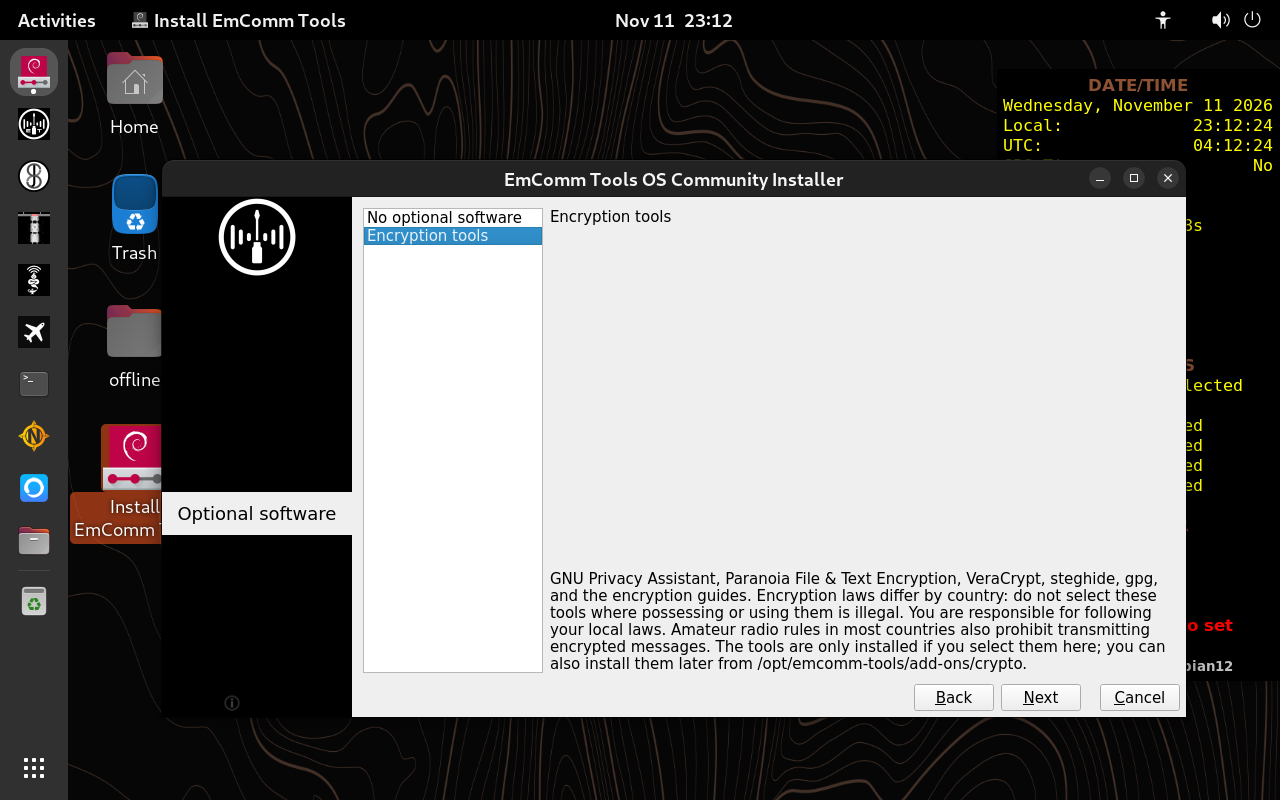
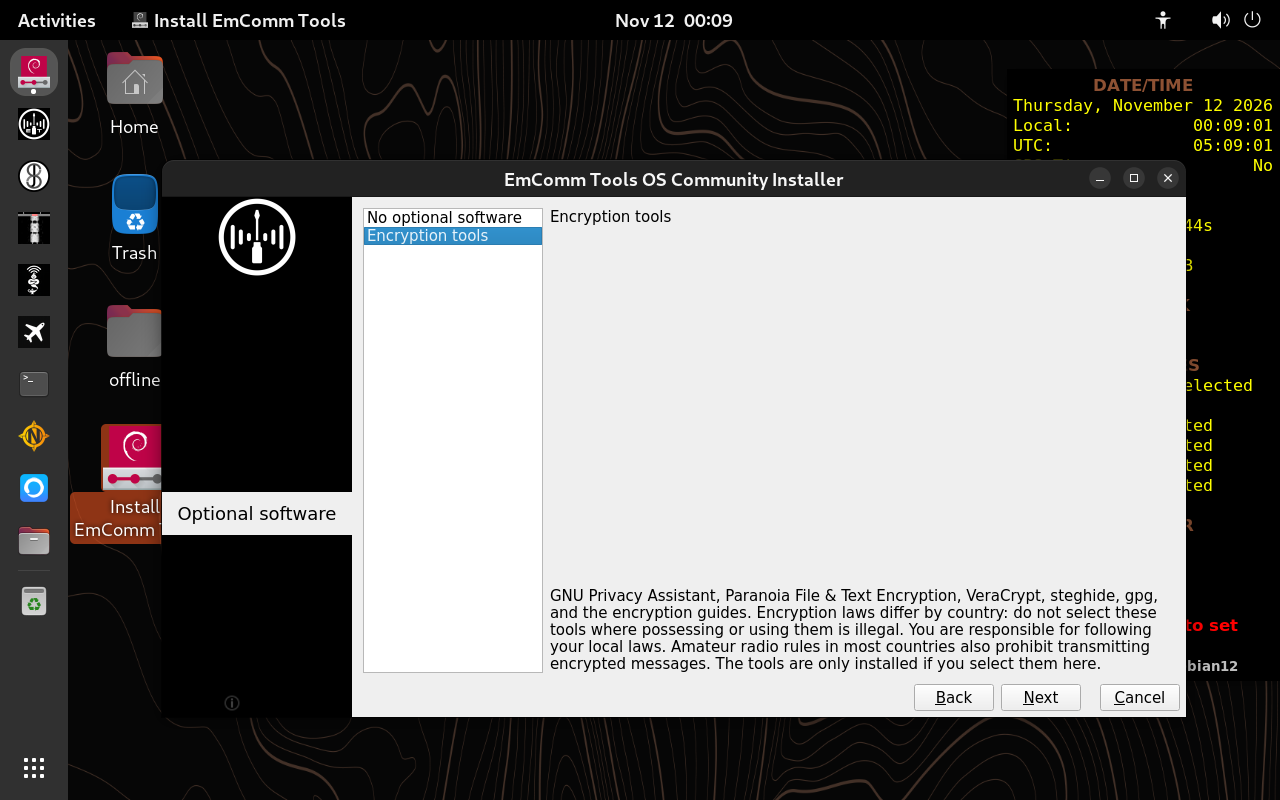
debian - Fix live settings carry-over placeholders; docs updates
- shellprocess-etc-live-settings.conf: Calamares 3.2.61 expands
  @@ROOT@@ and @@USER@@, not ${ROOT}/${USER}; with the old form the
  callsign and grid weren't copied. Tested in a VM.
- CHANGES-OVERVIEW.md moved next to ISO-BUILD-PLAN.md; goals for version
  and look parity with r7; suggested next steps for maps and Wikipedia;
  categories sorted by file count; Verified and not-tested lists updated.
- ISO-BUILD-PLAN.md: maps row, carry-over and GRUB checks, link to the
  install guide.
- install.sh: build-mode comments no longer mention first-login maps.
- Install guide: Optional software screenshot from the current ISO.

diff --git a/CHANGES-OVERVIEW.md b/CHANGES-OVERVIEW.md
@@ -3,10 +3,10 @@
 This document covers what one-time changes are needed to move EmComm Tools from Ubuntu/Cubic to Debian/live-build,
 and why.
 
-Once these changes are PR/merged, this document becomes irrelevant and can be removed.
+Once these changes are merged, this document becomes irrelevant and can be removed.
 
 How to build ISOs from now on is in
-[ISO-BUILD-PLAN.md](../ISO-BUILD-PLAN.md) and should persist.
+[ISO-BUILD-PLAN.md](ISO-BUILD-PLAN.md) and should persist.
 
 ## Goal
 
@@ -14,9 +14,10 @@ The smallest change that:
 
 1. moves EmComm Tools from Ubuntu/Cubic to Debian/live-build,
 2. builds an ISO for global distribution,
-3. leaves the encryption tools installation up to the person installing, and
-4. produces an ISO that boots, installs and runs with no internet. Installing
-   VARA (optional) needs internet, or a WINE backup to restore.
+3. leaves the encryption tools installation up to the person installing,
+4. produces an ISO that boots, installs and runs with no internet. Installing VARA (optional) needs internet, or a WINE backup to restore from,
+5. keeps version parity with r7 where possible, and
+6. maintain the look and style of r7.
 
 ## For the ETC developer to review
 
@@ -29,10 +30,10 @@ asks none, so each is handled differently now:
 
 | r7 question | Where | Now |
 |---|---|---|
-| OSM state map (Navit) | `download-osm-maps.sh` | Not in the ISO. Planned: first-login map step per operator. Until then there's no simple way to get it |
-| ETC map tiles: US, Canada or world | `download-et-maps.sh` | The world map (80 MB) is in the ISO. US and Canada tiles: same planned first-login step |
-| Wikipedia file (`ET_EXPERT`) | `download-wikipedia.sh` | No `.zim` files ship with the ISO; the Kiwix reader is installed. Users download `.zim` files after install ([INSTALL-GUIDE.md](INSTALL-GUIDE.md)) |
-| VARA/WINE notes (`ET_EXPERT`) | `install-wine.sh`, `wine.txt` | WINE, winetricks and the VARA add-on scripts (`~/add-ons/wine`) are in the ISO; VARA itself isn't. Users install it after install, with internet or by restoring a WINE backup made with `05-backup-wine-install.sh` (`cd ~ && tar -xzf etc-wine-backup-*.tar.gz`). Covered in [INSTALL-GUIDE.md](INSTALL-GUIDE.md) |
+| OSM state map (Navit) | `download-osm-maps.sh` | Not in the ISO. For now, users copy a `.osm.pbf` state map to `~/my-maps/` after install ([INSTALL-GUIDE.md](docs/INSTALL-GUIDE.md)). Suggested next step: a map step after install that runs `download-osm-maps.sh` for the user when online |
+| ETC map tiles: US, Canada or world | `download-et-maps.sh` | The world map (80 MB) is in the ISO. For now, users copy US or Canada `.mbtiles` to `~/.local/share/emcomm-tools/mbtileserver/tilesets/` after install ([INSTALL-GUIDE.md](docs/INSTALL-GUIDE.md)). Suggested next step: the same map step runs `download-et-maps.sh` |
+| Wikipedia file (`ET_EXPERT`) | `download-wikipedia.sh` | No `.zim` files ship with the ISO; the Kiwix reader is installed. For now, users download or copy `.zim` files after install ([INSTALL-GUIDE.md](docs/INSTALL-GUIDE.md)). Suggested next step: the same map step also offers `download-wikipedia.sh` when online |
+| VARA/WINE notes (`ET_EXPERT`) | `install-wine.sh`, `wine.txt` | WINE, winetricks and the VARA add-on scripts (`~/add-ons/wine`) are in the ISO; VARA itself isn't. Users install it after install, with internet or by restoring a WINE backup made with `05-backup-wine-install.sh` (`cd ~ && tar -xzf etc-wine-backup-*.tar.gz`). Covered in [INSTALL-GUIDE.md](docs/INSTALL-GUIDE.md) |
 
 Other changes users will notice:
 
@@ -85,11 +86,12 @@ Debian 12 install. To watch in hardware testing: VARA under WINE 8.0.
 
 ## Size/Scope of this migration
 
-Branch `feature/debian-live-iso` against `release/r7`: **76 files,
-+1,674 / −341 lines** (not counting this document).
+Branch `feature/debian-live-iso` against `release/r7`: **95 files,
++1,682 / −341 lines** (not counting this document).
 
 It's less than it looks:
 
+- 17 files are the install guide's screenshots, plus the guide itself.
 - 22 files are moves or deletions with no new logic: 12 renames (slideshow
   images, encryption guide files, the GNOME settings file) and 10 deleted
   Ubuntu/Cubic files.
@@ -102,18 +104,18 @@ It's less than it looks:
 | # | Category | Files | Lines +/− | Why |
 |---|---|---|---|---|
 | 1 | Installer: Ubiquity → Calamares | 22 | +312 / −209 | Ubuntu's installer doesn't exist on Debian. The 8 slideshow images only moved. The 9 Ubiquity HTML slides were deleted, and the same 8 slides were ported to one Calamares `show.qml` (264 lines). |
-| 2 | New ISO build (live-build) | 15 | +545 | Replaces Cubic. All new files; nothing existing changed. |
-| 3 | Encryption tools opt-in | 11 | +221 / −23 | Product requirement, not Debian's. `install-crypto.sh` is most of it. The guide files (`gpg-cheatsheet.md`, `steghide.md`, `steghide.jpg`) were moved unchanged, so only users who choose the tools get them. |
+| 2 | Docs | 20 | +342 | Release notes; developer build guide; end-user install guide. |
+| 3 | New ISO build (live-build) | 16 | +469 | Replaces Cubic. All new files; nothing existing changed. |
 | 4 | Debian package and OS differences | 16 | +115 / −74 | A small edit in each script that named an Ubuntu package, version or URL. |
-| 5 | Desktop parity with r7 | 6 | +77 / −20 | Ubuntu builds in its dock, theme and tray icons; Debian needs them added. No automatic update checks, as in r7. |
-| 6 | Users | 2 | +92 | Users created by the installer get ETC's `et-data` group as primary. |
-| 7 | Build mode | 2 | +53 / −15 | `install.sh` asks nothing during the image build. |
-| 8 | Docs | 2 | +259 | Release notes; end-user install guide. |
+| 5 | Encryption tools opt-in | 11 | +221 / −23 | Distribution requirement, not Debian's. `install-crypto.sh` is most of it. The guide files (`gpg-cheatsheet.md`, `steghide.md`, `steghide.jpg`) were moved unchanged, so only users who choose the tools get them. |
+| 6 | Desktop parity with r7 | 6 | +77 / −20 | Ubuntu builds in its dock, theme and tray icons; Debian needs them added. No automatic update checks, as in r7. |
+| 7 | Users | 2 | +92 | Users created by the installer get ETC's `et-data` group as primary. |
+| 8 | Build mode | 2 | +54 / −15 | `install.sh` asks nothing during the image build. |
 
 ## Beyond the minimum
 
-Changes the goal didn't strictly need, and why they're in. Together they're
-roughly a third of the added lines; dropping them gives the smallest possible
+Changes mostly needed to address goal #6, but aren't strictly needed, and why they're in. Together they're
+about 40% of the added lines; dropping them gives the smallest possible
 migration, at the cost of r7's look and some live-session usability:
 
 | Change | Why it's here | Could drop? |
@@ -121,14 +123,14 @@ migration, at the cost of r7's look and some live-session usability:
 | GNOME parity: Yaru theme, dock, desktop icons, tray icons, window buttons | Look and version parity with r7 | Yes, if r7's look isn't required |
 | Calamares slideshow ported from Ubiquity (`show.qml`) | Branding parity | Yes; Calamares works without it |
 | GRUB menus branded: ETC background on the live ISO's boot menu; "EmComm Tools" and the same background on installed systems | Branding parity | Yes; the stock Debian menus work |
-| `configure-existing-user.sh` | Only for running `install.sh` on an existing Debian system; the ISO doesn't use it | Yes, if only the ISO is supported |
-| Live-session polish: installer icon shown correctly, installer starts without a password, ETC dock in the live session, callsign/grid/Winlink password saved in the live session carried into the installed system | Usability of the live session | Yes; the ISO works without them |
-| Update checks off: GNOME Software settings and login service, apt's daily timers | r7 removed Ubuntu's update-notifier; an offline system shouldn't try | No (requested) |
-| `et-fix-primary-group` (installer step) | ETC shares files through the `et-data` group, and Calamares can't set a primary group | Only by changing ETC's group design |
 | ETC boot splash watermark: Debian's logo diverted (Debian's plymouth puts its own in) | Branding parity | Yes; Debian's logo shows instead |
+| Live-session polish: installer icon shown correctly, installer starts without a password, ETC dock in the live session, callsign/grid/Winlink password saved in the live session carried into the installed system | Usability of the live session | Yes; the ISO works without them |
+| `et-fix-primary-group` (installer step) | ETC shares files through the `et-data` group, and Calamares can't set a primary group | Only by changing ETC's group design |
+| `configure-existing-user.sh` | Only for running `install.sh` on an existing Debian system; the ISO doesn't use it | Yes, if only the ISO is supported |
 | `configure-user.sh` doesn't fail if `et-data` exists | Lets `install.sh` run twice on the same system | Yes; the ISO build runs it once |
+| Update checks off: GNOME Software settings and login service, apt's daily timers | r7 removed Ubuntu's update-notifier; an offline system shouldn't try | No (requested) |
 | `build.sh` keeps live-build's download cache | Faster rebuilds | Yes |
-| End-user install guide with screenshots ([INSTALL-GUIDE.md](INSTALL-GUIDE.md)): Ventoy stick with a folder for maps, `.zim` files and VARA backups; booting; installing; copying those files in after install | The installer and boot steps changed from r7; users need current instructions | Yes; it's documentation only |
+| End-user install guide with screenshots ([INSTALL-GUIDE.md](docs/INSTALL-GUIDE.md)): Ventoy stick with a folder for maps, `.zim` files and VARA backups; booting; installing; copying those files in after install | The installer and boot steps changed from r7; users need current instructions | Yes; it's documentation only |
 
 ## Verified (11–12 Nov 2026)
 
@@ -138,16 +140,26 @@ In VMs, with the network unplugged unless noted:
 |---|---|
 | Build (`live-build/build.sh`) | Completes; `install.sh` 0 failed steps |
 | ISO contents | No build files, logs, SSH host keys or machine-id; encryption tools prepared, not installed; WINE (32- and 64-bit), winetricks and the VARA add-on scripts included |
-| UEFI, Secure Boot on: live session | ETC boot menu, splash, desktop and dock; installer starts without a password; Optional software page text; slideshow advances |
+| UEFI, Secure Boot on: live session | ETC boot menu, splash, desktop and dock; installer starts without a password; Optional software page text, including the encryption legal notice; slideshow advances |
 | UEFI, Secure Boot on: install with encryption tools | Tools and guides installed from the ISO |
 | UEFI, Secure Boot on: install without encryption tools | No tools, guides or marker; add-on still available |
-| UEFI, Secure Boot on: installed system | Boots; ETC splash, dock, wallpaper; `et-data` primary group; SSH server running; apt sources include `contrib` and `non-free`; update checks off; ETC test suite passes except xara (no source package) |
-| BIOS (no UEFI): live boot and install | Boots and installs; BIOS GRUB installed from the ISO |
+| UEFI, Secure Boot on: installed system | Boots; GRUB menu shows "EmComm Tools" with the ETC background; ETC splash, dock, wallpaper; `et-data` primary group; SSH server running; apt sources include `contrib` and `non-free`; update checks off; ETC test suite passes except xara (no source package) |
+| BIOS (no UEFI): live boot and install | Boots and installs; BIOS GRUB installed from the ISO (tested before GRUB branding was added) |
+| UEFI, Secure Boot on: live settings carry-over | Callsign and grid saved in the live session are in the installed user's `user.json`, with the `first-login-complete` marker, owned by the new user; setup doesn't open at first login. The first try failed: Calamares 3.2 needs `@@ROOT@@ @@USER@@`, not `${ROOT} ${USER}`. Passed with that fix applied by hand in the live session; the fix isn't in a built ISO yet |
 | Ventoy 1.1.10, UEFI, Secure Boot off | ISO boots from a Ventoy stick to the ETC boot menu and live desktop |
 
-Not tested yet: the encryption legal notice in the installer (added after the
-last build), the installed system's GRUB branding, Ventoy with Secure Boot on,
-and hardware with a radio (CAT, audio, JS8Call, WSJT-X, VARA under WINE).
+Not tested yet:
+
+- The live settings carry-over fix in a rebuilt ISO, including an install after
+  **Cancel** in the live session (setup should then open at first login)
+- GRUB branding on BIOS: the live ISO's boot menu and the installed system's
+  menu
+- Installing with **Encrypt system** (full-disk encryption) on the Partitions
+  page
+- Ventoy with Secure Boot on
+- The install guide's after-install steps: copying files from the Ventoy stick,
+  the VARA scripts (needs internet), restoring a WINE backup
+- Hardware with a radio (CAT, audio, JS8Call, WSJT-X, VARA under WINE)
 
 ## Files in each category
 
@@ -162,7 +174,15 @@ and hardware with a radio (CAT, audio, JS8Call, WSJT-X, VARA under WINE).
 | `overlay/etc/calamares/branding/emcomm-tools/branding.desc`, `logo.png` | New: installer name and logo |
 | `scripts/debrand.sh` | Installs the Calamares branding instead of Ubiquity's; drops the Cubic kernel reinstall |
 
-### 2. New ISO build (live-build)
+### 2. Docs
+
+| File | Change |
+|---|---|
+| `RELEASES.md` | Release entry |
+| `ISO-BUILD-PLAN.md` | New: developer guide for building and publishing ISOs |
+| `docs/INSTALL-GUIDE.md`, `docs/install-guide/images/` | New: end-user guide (Ventoy USB stick with room for maps, `.zim` files and VARA backups; installing; after install) |
+
+### 3. New ISO build (live-build)
 
 | File | Purpose |
 |---|---|
@@ -172,22 +192,16 @@ and hardware with a radio (CAT, audio, JS8Call, WSJT-X, VARA under WINE).
 | `live-build/config/package-lists/emcomm-tools.list.chroot` | GNOME and Calamares in the image |
 | `live-build/config/package-lists/installer.list.binary` | GRUB packages carried in the ISO, so installs work offline |
 | `live-build/config/includes.chroot/etc/calamares/settings.conf` | Installer steps (Debian's, plus ETC's five) |
-| `live-build/config/includes.chroot/etc/calamares/modules/*.conf` (6) | Groups for new users, Optional software page, offline encryption install, ETC setup (primary group, SSH host keys), live settings carry-over, apt sources (Debian's installer drops `contrib` and `non-free`; this puts them back) |
+| `live-build/config/includes.chroot/etc/calamares/modules/users.conf` | Groups for new users |
+| `live-build/config/includes.chroot/etc/calamares/modules/packagechooser-crypto.conf` | Optional software page |
+| `live-build/config/includes.chroot/etc/calamares/modules/contextualprocess-crypto.conf` | Installs the encryption tools offline if selected |
+| `live-build/config/includes.chroot/etc/calamares/modules/shellprocess-etc-setup.conf` | ETC setup: primary group, SSH host keys |
+| `live-build/config/includes.chroot/etc/calamares/modules/shellprocess-etc-live-settings.conf` | Carries the callsign, grid and Winlink password saved in the live session to the new user |
+| `live-build/config/includes.chroot/etc/calamares/modules/shellprocess-etc-sources.conf` | apt sources: Debian's installer drops `contrib` and `non-free`; this puts them back |
 | `live-build/config/includes.chroot/usr/local/sbin/et-carry-live-settings` | Copies the callsign, grid and Winlink password saved in the live session to the new user |
-| `live-build/config/includes.chroot/…/et-trust-live-installer` (2) | Live session: shows the installer icon as trusted on GNOME |
+| `live-build/config/includes.chroot/usr/local/bin/et-trust-live-installer` | Live session: marks the installer icon as trusted on GNOME |
+| `live-build/config/includes.chroot/etc/xdg/autostart/et-trust-live-installer.desktop` | Live session: runs `et-trust-live-installer` at login |
 | `live-build/config/includes.chroot/usr/lib/live/config/2500-etc-installer-polkit` | Live session: the installer starts without a password |
-| `ISO-BUILD-PLAN.md` | Developer guide: building and publishing ISOs |
-
-### 3. Encryption tools opt-in
-
-| File | Change |
-|---|---|
-| `scripts/install-crypto.sh` | New: installs GPA, PFTE, VeraCrypt, steghide, gpg and guides; or prepares them for the installer and installs them offline |
-| `scripts/crypto-docs/gpg-cheatsheet.md`, `steghide.md`, `steghide.jpg` | Moved unchanged from `overlay/etc/skel/Desktop/offline/crypto/` (which every user got), so they're only installed with the tools |
-| `scripts/install-offline-lib-crypto.json`, `install-offline-lib.json` | AmRRON key and GPG guide moved to the crypto list |
-| `scripts/install-offline-lib.sh` | Takes a file list and destination |
-| `scripts/install-pfte.sh`, `install-veracrypt.sh` | Download-only mode, for the offline install |
-| `tests/test-gpa.sh`, `test-pfte.sh` | Pass when the tools weren't chosen |
 
 ### 4. Debian package and OS differences
 
@@ -207,7 +221,18 @@ and hardware with a radio (CAT, audio, JS8Call, WSJT-X, VARA under WINE).
 | `scripts/configure-user.sh` | Don't fail if `et-data` already exists |
 | `tests/test-java.sh`, `test-python.sh` | Expect Java 17 and Python 3 |
 
-### 5. Desktop parity with r7
+### 5. Encryption tools opt-in
+
+| File | Change |
+|---|---|
+| `scripts/install-crypto.sh` | New: installs GPA, PFTE, VeraCrypt, steghide, gpg and guides; or prepares them for the installer and installs them offline |
+| `scripts/crypto-docs/gpg-cheatsheet.md`, `steghide.md`, `steghide.jpg` | Moved unchanged from `overlay/etc/skel/Desktop/offline/crypto/` (which every user got), so they're only installed with the tools |
+| `scripts/install-offline-lib-crypto.json`, `install-offline-lib.json` | AmRRON key and GPG guide moved to the crypto list |
+| `scripts/install-offline-lib.sh` | Takes a file list and destination |
+| `scripts/install-pfte.sh`, `install-veracrypt.sh` | Download-only mode, for the offline install |
+| `tests/test-gpa.sh`, `test-pfte.sh` | Pass when the tools weren't chosen |
+
+### 6. Desktop parity with r7
 
 | File | Change |
 |---|---|
@@ -217,25 +242,16 @@ and hardware with a radio (CAT, audio, JS8Call, WSJT-X, VARA under WINE).
 | `logos/emcomm-tools-boot-800x600.png`, `-640x480.png` | New: GRUB menu background for the live ISO (via `live-build/build.sh`) and installed systems |
 | `overlay/etc/skel/.config/autostart/org.gnome.Software.desktop` | New: GNOME Software's update service doesn't start at login (the app still opens) |
 
-### 6. Users
+### 7. Users
 
 | File | Change |
 |---|---|
 | `overlay/opt/emcomm-tools/bin/et-fix-primary-group` | New: `et-data` as primary group for users the installer creates |
 | `scripts/configure-existing-user.sh` | New: sets up the user when `install.sh` runs on an existing Debian system (not used by the ISO) |
 
-### 7. Build mode
+### 8. Build mode
 
 | File | Change |
 |---|---|
-| `scripts/install.sh` | `ET_BUILD=1`: no prompts; maps chosen at first login; encryption tools prepared, not asked |
+| `scripts/install.sh` | `ET_BUILD=1`: no prompts; only the world map; encryption tools prepared, not asked |
 | `scripts/download-et-maps.sh` | Country can be passed instead of asked |
-
-### 8. Docs
-
-| File | Change |
-|---|---|
-| `RELEASES.md` | Release entry |
-| `docs/INSTALL-GUIDE.md`, `docs/install-guide/images/` | New: end-user guide (Ventoy USB stick with room for maps, `.zim` files and VARA backups; installing; after install) |
-
-The developer build guide is `ISO-BUILD-PLAN.md` (category 2).

diff --git a/ISO-BUILD-PLAN.md b/ISO-BUILD-PLAN.md
@@ -6,7 +6,7 @@ and install it with the installer (Calamares). Building the image needs internet
 finished ISO boots, installs and runs without it.
 
 Why the project moved to this method, and what changed to get here, is in
-[docs/CHANGES-OVERVIEW.md](docs/CHANGES-OVERVIEW.md).
+[CHANGES-OVERVIEW.md](CHANGES-OVERVIEW.md).
 
 ## What you need
 
